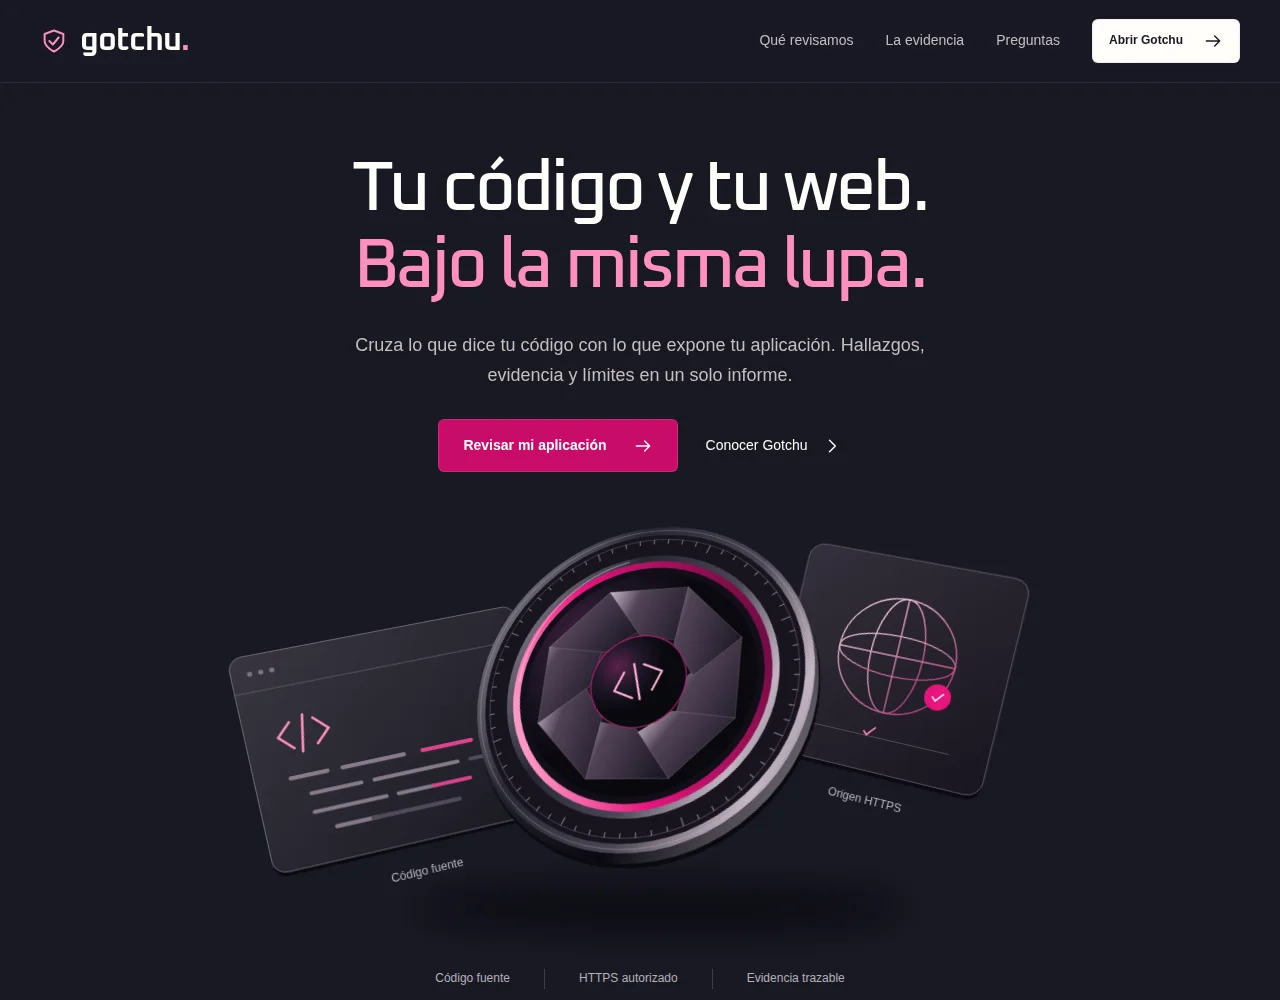
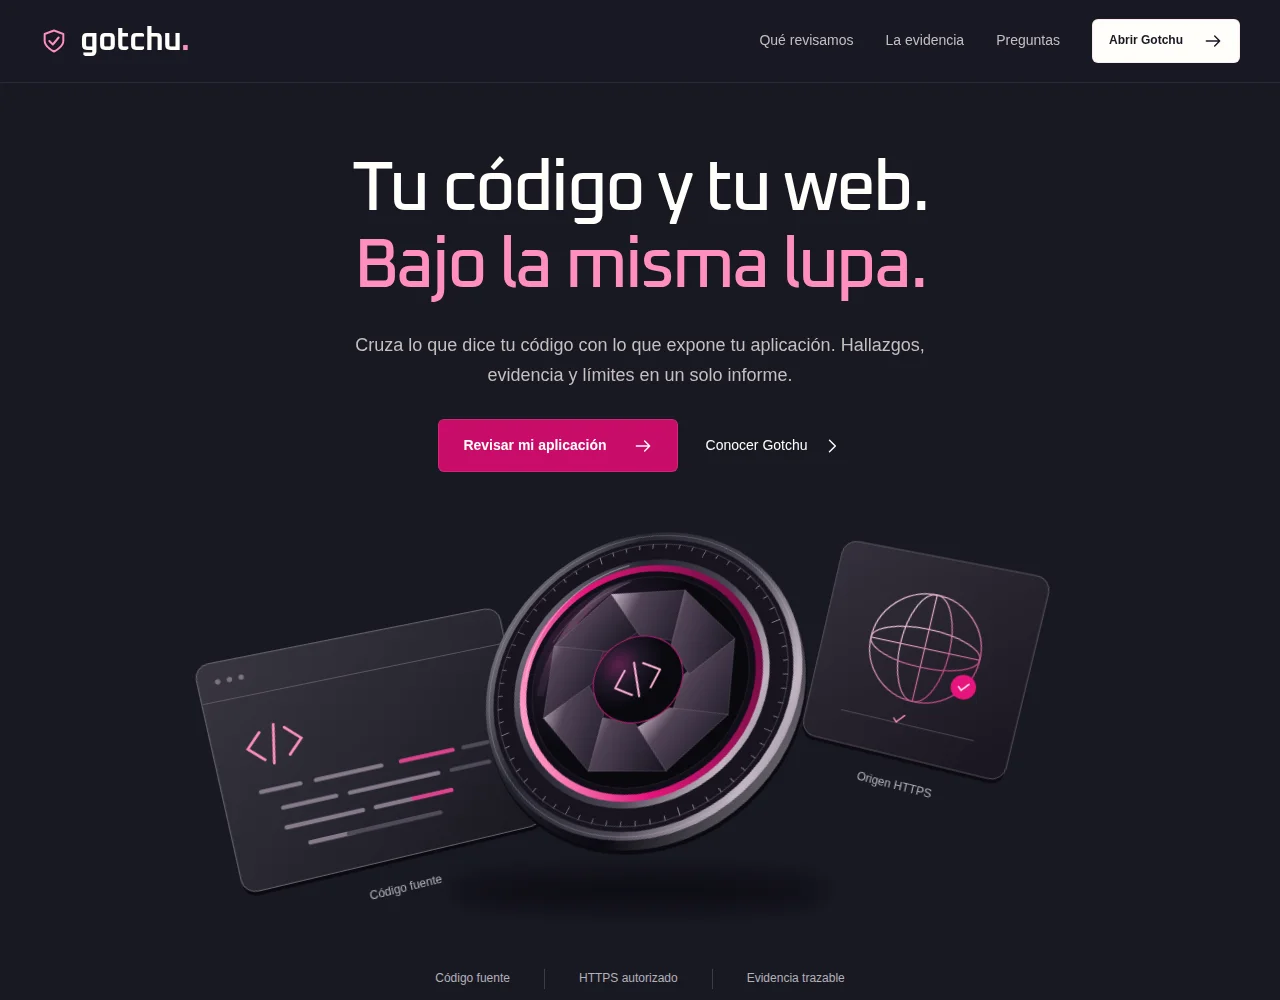
refine(web): tune optical depth and spring motion with Codex review

Changed region(s): [[0.1562, 0.527, 0.7812, 0.899], [0.6562, 0.775, 0.7188, 0.806], [0.2188, 0.868, 0.25, 0.899]]

diff --git a/apps/web/src/components/landing.css b/apps/web/src/components/landing.css
@@ -28,14 +28,14 @@
 .g-hero-foot { display: flex; justify-content: center; gap: 0; padding-block: 26px; color: var(--gc-muted); font-size: 12px; }
 .g-hero-foot > span { padding: 0 34px; }
 .g-hero-foot > span + span { border-left: 1px solid var(--gc-line-soft); }
-.g-scene { position: relative; width: min(860px, 100%); aspect-ratio: 1.9; perspective: 1100px; isolation: isolate; }
-.g-scene-shadow { position: absolute; width: 57%; height: 9%; left: 24%; bottom: 3%; border-radius: 50%; background: #08070d; filter: blur(18px); opacity: .8; }
-.g-object { position: absolute; inset: 0; transform-style: preserve-3d; }
+.g-scene { position: relative; width: min(860px, 100%); aspect-ratio: 1.9; perspective: 1200px; perspective-origin: 50% 44%; isolation: isolate; }
+.g-scene-shadow { position: absolute; width: 48%; height: 7%; left: 26%; bottom: 4%; border-radius: 50%; background: #08070d; filter: blur(14px); opacity: .82; transform: translateZ(-110px); }
+.g-object { position: absolute; inset: 0; transform-origin: 50% 46%; transform-style: preserve-3d; }
 .g-object img { display: block; width: 100%; height: auto; user-select: none; -webkit-user-drag: none; pointer-events: none; }
-.g-source-layer, .g-origin-layer, .g-lens-layer { position: absolute; transition: transform 500ms var(--gc-ease), opacity 300ms ease; }
-.g-source-layer { width: 35%; left: 4%; top: 29%; transform: translateZ(-36px) rotateY(12deg) rotateZ(-12deg); }
-.g-origin-layer { width: 28%; right: 5%; top: 12%; transform: translateZ(-65px) rotateY(-18deg) rotateZ(13deg); }
-.g-lens-layer { width: 44%; left: 28%; top: 0; transform: translateZ(70px) rotateX(24deg) rotateY(-19deg) rotateZ(-16deg); }
+.g-source-layer, .g-origin-layer, .g-lens-layer { position: absolute; transform-style: preserve-3d; transition: transform 500ms var(--gc-ease), opacity 300ms ease; }
+.g-source-layer { width: 37%; left: 1%; top: 30%; transform: translate3d(-6px, 0, -34px) rotateY(12deg) rotateZ(-12deg); }
+.g-origin-layer { width: 26%; right: 4%; top: 13%; transform: translate3d(8px, -4px, -52px) rotateY(-18deg) rotateZ(13deg); }
+.g-lens-layer { width: 42%; left: 29%; top: 1%; transform: translate3d(0, 0, 56px) rotateX(24deg) rotateY(-19deg) rotateZ(-16deg); }
 .g-source-layer > span, .g-origin-layer > span { display: block; padding-top: 12px; color: var(--gc-muted); font: 12px/1.5 var(--gc-font-body); text-align: center; }
 .g-journey { position: relative; display: grid; grid-template-columns: 1.1fr .9fr; gap: 52px; padding-block: 60px 80px; }
 .g-journey-visual { position: sticky; align-self: start; top: calc(50vh - 200px); }
@@ -47,7 +47,7 @@
 .g-scene-compact[data-perspective='0'] .g-origin-layer { opacity: .45; }
 .g-scene-compact[data-perspective='1'] .g-source-layer { opacity: .45; transform: translate3d(-5px, 10px, -80px) rotateY(12deg) rotateZ(-18deg); }
 .g-scene-compact[data-perspective='1'] .g-origin-layer { transform: translate3d(15px, -15px, -75px) rotateY(-12deg) rotateZ(8deg); }
-.g-scene-compact[data-perspective='1'] .g-lens-layer { transform: translateZ(70px) rotateX(14deg) rotateY(16deg) rotateZ(8deg); }
+.g-scene-compact[data-perspective='1'] .g-lens-layer { transform: translate3d(0, 0, 56px) rotateX(14deg) rotateY(16deg) rotateZ(8deg); }
 .g-scene-compact[data-perspective='2'] .g-source-layer { transform: translate3d(20px, -10px, -35px) rotateZ(-6deg); }
 .g-scene-compact[data-perspective='2'] .g-origin-layer { transform: translate3d(-15px, 15px, -50px) rotateZ(6deg); }
 .g-chapter-marker { display: flex; justify-content: center; gap: 16px; margin-top: 24px; }
@@ -134,9 +134,9 @@
   .g-button { font-size: 14px; padding: 14px 18px; gap: 18px; }
   .g-secondary-link { font-size: 14px; gap: 10px; }
   .g-hero .g-scene { margin-top: 30px; width: min(520px, 100%); aspect-ratio: 1.4; }
-  .g-lens-layer { width: 56%; left: 22%; top: 0; }
-  .g-source-layer { width: 42%; left: 0; top: 38%; }
-  .g-origin-layer { width: 34%; right: 0; top: 14%; }
+  .g-lens-layer { width: 52%; left: 24%; top: 2%; }
+  .g-source-layer { width: 40%; left: -1%; top: 39%; }
+  .g-origin-layer { width: 30%; right: 1%; top: 17%; }
   .g-source-layer > span, .g-origin-layer > span { font-size: 12px; padding-top: 8px; }
   .g-hero-foot { gap: 12px; padding-block: 16px; font-size: 12px; flex-wrap: wrap; }
   .g-hero-foot > span { padding: 0; }
@@ -171,7 +171,7 @@
   .g-page .g-button:is(:hover,:active), .g-page .g-secondary-link:hover svg { transform: none; }
   .g-scene-compact .g-source-layer { transform: rotateZ(-12deg) !important; }
   .g-scene-compact .g-origin-layer { transform: rotateZ(13deg) !important; }
-  .g-scene-compact .g-lens-layer { transform: translateZ(70px) rotateX(24deg) rotateY(-19deg) rotateZ(-16deg) !important; }
+  .g-scene-compact .g-lens-layer { transform: translate3d(0, 0, 56px) rotateX(24deg) rotateY(-19deg) rotateZ(-16deg) !important; }
   .g-faq details::details-content { transition: none; }
 }
 @media (prefers-reduced-transparency: reduce), (prefers-contrast: more) { .g-header { background: var(--gc-canvas); backdrop-filter: none; border-bottom-color: var(--gc-line); } }

diff --git a/apps/web/src/components/evidence-lens.tsx b/apps/web/src/components/evidence-lens.tsx
@@ -1,4 +1,4 @@
-import { useEffect, useRef, useState, type PointerEvent } from 'react';
+import { useCallback, useEffect, useRef, useState, type PointerEvent } from 'react';
 import { useMotionValue, useMotionValueEvent, useReducedMotion, useScroll, useSpring } from 'motion/react';
 
 /** Decorative product geometry. No result, score or running assessment is depicted. */
@@ -18,19 +18,21 @@ export function EvidenceLens({ perspective = 0, compact = false }: { perspective
     update(); media.addEventListener('change', update);
     return () => media.removeEventListener('change', update);
   }, []);
-  function draw() {
+  const draw = useCallback(() => {
     if (!object.current) return;
-    object.current.style.transform = reduced ? 'none' : `translate3d(0, ${(scrollYProgress.get() - .5) * -18}px, 0) rotateX(${smoothY.get()}deg) rotateY(${smoothX.get()}deg)`;
-  }
+    const scrollTravel = (scrollYProgress.get() - .5) * -18;
+    const transform = `translate3d(0, ${scrollTravel}px, 0) rotateX(${smoothY.get()}deg) rotateY(${smoothX.get()}deg)`;
+    object.current.style.transform = reduced ? 'none' : transform;
+  }, [reduced, scrollYProgress, smoothX, smoothY]);
   useMotionValueEvent(smoothX, 'change', draw);
   useMotionValueEvent(smoothY, 'change', draw);
   useMotionValueEvent(scrollYProgress, 'change', draw);
-  useEffect(() => { if (reduced && object.current) object.current.style.transform = 'none'; }, [reduced]);
+  useEffect(() => { draw(); }, [draw]);
   function track(event: PointerEvent<HTMLDivElement>) {
     if (!finePointer || reduced || event.pointerType === 'touch') return;
     const bounds = event.currentTarget.getBoundingClientRect();
-    x.set(((event.clientX - bounds.left) / bounds.width - .5) * 16);
-    y.set(((event.clientY - bounds.top) / bounds.height - .5) * -12);
+    x.set(((event.clientX - bounds.left) / bounds.width - .5) * 12);
+    y.set(((event.clientY - bounds.top) / bounds.height - .5) * -8);
   }
   return <div ref={surface} className={`g-scene${compact ? ' g-scene-compact' : ''}`} data-perspective={perspective} onPointerMove={track} onPointerLeave={() => { x.set(0); y.set(0); }} aria-hidden="true">
     <div className="g-scene-shadow" />

diff --git a/scripts/generate-landing-assets.py b/scripts/generate-landing-assets.py
@@ -22,6 +22,8 @@ svg=f'''<svg xmlns="http://www.w3.org/2000/svg" width="520" height="540" viewBox
 <linearGradient id="blade" x1="0" y1="0" x2="1" y2="1"><stop stop-color="#cbb9c9"/><stop offset=".3" stop-color="#514356"/><stop offset="1" stop-color="#16131f"/></linearGradient>
 <radialGradient id="glass" cx=".35" cy=".25"><stop stop-color="#5b224c"/><stop offset=".5" stop-color="#1f1728"/><stop offset="1" stop-color="#09090e"/></radialGradient>
 <linearGradient id="rim"><stop stop-color="#ff9dc9"/><stop offset=".4" stop-color="#e7147d"/><stop offset="1" stop-color="#720c44"/></linearGradient>
+<linearGradient id="reflection" x1=".05" y1=".1" x2=".9" y2=".8"><stop stop-color="#fffefa" stop-opacity=".48"/><stop offset=".38" stop-color="#e99ac3" stop-opacity=".1"/><stop offset="1" stop-color="#e99ac3" stop-opacity="0"/></linearGradient>
+<clipPath id="glassClip"><circle cx="260" cy="260" r="157"/></clipPath>
 </defs>
 <circle cx="260" cy="280" r="230" fill="#0a090f"/>
 <circle cx="260" cy="274" r="230" fill="url(#edge)"/>
@@ -34,7 +36,12 @@ svg=f'''<svg xmlns="http://www.w3.org/2000/svg" width="520" height="540" viewBox
 <circle cx="260" cy="260" r="177" fill="url(#rim)"/>
 <circle cx="260" cy="260" r="167" fill="#120e18"/>
 <circle cx="260" cy="260" r="158" fill="url(#glass)"/>
+<g clip-path="url(#glassClip)">
+<path d="M121 220c36-74 106-118 190-118 39 0 74 10 106 29" fill="none" stroke="url(#reflection)" stroke-width="12" stroke-linecap="round"/>
+<path d="M158 151c37-30 84-45 133-42" fill="none" stroke="#fffefa" stroke-opacity=".14" stroke-width="2" stroke-linecap="round"/>
+</g>
 {''.join(blades)}
+<circle cx="260" cy="260" r="158" fill="none" stroke="#fffefa" stroke-opacity=".12"/>
 <circle cx="260" cy="260" r="65" fill="url(#glass)" stroke="#b01d70" stroke-width="1.5"/>
 <path d="m246 240-20 20 20 20m28-40 20 20-20 20m-12-46-7 52" fill="none" stroke="#ffafd2" stroke-width="3" stroke-linecap="round" stroke-linejoin="round"/>
 <path d="M104 190a180 180 0 0 1 194-108" fill="none" stroke="#fffefa" stroke-opacity=".35" stroke-width="2"/>

diff --git a/apps/web/design/landing.audit.md b/apps/web/design/landing.audit.md
@@ -1,0 +1,29 @@
+# Landing validation
+
+Scope: public `/` and local design context only. Customer/demo presentation, backend, permissions and authentication are unchanged relative to `origin/main`.
+
+## Sources and editorial review
+
+- Product claims checked against README, `docs/architecture.md`, customer assessment contracts and `customer-dashboard.tsx`.
+- Copy distinguishes source snapshots, explicitly authorized HTTPS and combined evidence. No monitoring, automatic fixes, whole-site crawl, execution of uploaded code or guaranteed security is advertised.
+- The previous sculpture was removed. Three authored assets are reproducible with `python3 scripts/generate-landing-assets.py`; no Apple/Churupitos artwork, AIRNT or initial loader is included.
+- No visible artwork explanations, mock-analysis captions, invented scanner results, metrics or testimonials.
+
+## Verification exercised
+
+- Monorepo `pnpm build`, `pnpm typecheck` and `pnpm test` passed at `6bbafff`: 265 tests passed; 99 infrastructure-dependent cases were skipped by their normal configuration. These skipped cases are not live-infrastructure evidence.
+- After integrating the Codex visual refinement: web typecheck, all 48 web tests, the production web build and all 14 Playwright desktop/mobile cases passed again.
+- The browser cases include axe checks, pointer tilt/reset, native scrolling through all chapters, ARIA tabs with pointer/keyboard, mobile menu/Escape, FAQ, CTA destinations, a 320px reduced-motion viewport and server-rendered content without JavaScript. Test projections do not replace real-device testing.
+- Impeccable detector returned `[]` for the final landing TSX, CSS and lens component.
+- Real desktop/mobile screenshots were inspected after integration. The story and scope states were exercised while recording a Chromium walkthrough; the screenshots in `screenshots/` are actual renders.
+
+## Collaborator and final refinements
+
+Codex `gpt-5.6-terra` at high reasoning supplied a read-only patch after Bubblewrap proved unavailable on this host. Parent reviewed/applied the exact file changes and regenerated the assets. The patch adds an optical reflection and glass rim, separates the source/origin planes, softens pointer tilt to ±6°/±4°, and initializes/reapplies the transform when motion preferences change. The collaborator did not edit the worktree or independently execute browser validation. Requested Astra model IDs were rejected by this account; no Astra contribution is claimed.
+
+## Remaining limits
+
+- Build succeeds with upstream bundler warnings about preserved `use client` directives and chunk debug names; these were not suppressed.
+- Chromium coverage is local; no Safari/Firefox matrix, hardware GPU benchmark, production deployment or cloud scanner-readiness claim is made.
+- Motion intentionally remains bounded and nonessential; reduced-motion and touch do not require following or dragging the object to use the page.
+- Commercial AIRNT licensing and buyer-specialization research remain open; neither blocks this landing using the licensed self-hosted Oxanium font.

diff --git a/apps/web/design/landing.direction.md b/apps/web/design/landing.direction.md
@@ -11,7 +11,7 @@
 | Location | Purpose | Frequency | Implementation |
 | --- | --- | --- | --- |
 | Hero group | Arrival / first-time orientation | Rare | Transform 8px and opacity .6→1, 600ms strong ease-out, 60ms stagger; immediately usable |
-| Lens pointer response | Spatial consistency and first-visit delight | Rare marketing exploration | Two interruptible Motion springs, duration .4, bounce 0; ±8°/±6°; fine pointer only |
+| Lens pointer response | Spatial consistency and first-visit delight | Rare marketing exploration | Two interruptible Motion springs, duration .4, bounce 0; ±6°/±4°; fine pointer only |
 | Lens scroll story | Explain source/HTTPS/evidence relationship | Once per visit | Native sticky; chapter observer; 500ms transform retargeting and 300ms opacity; bounded 18px depth travel |
 | Scope selection | Prevent abrupt change | Occasional | 200ms opacity crossfade for pointer; keyboard updates immediately |
 | Press / hover | Immediate feedback | Frequent | .97 press scale, 160ms token ease; 2px hover lift only with fine pointer |
